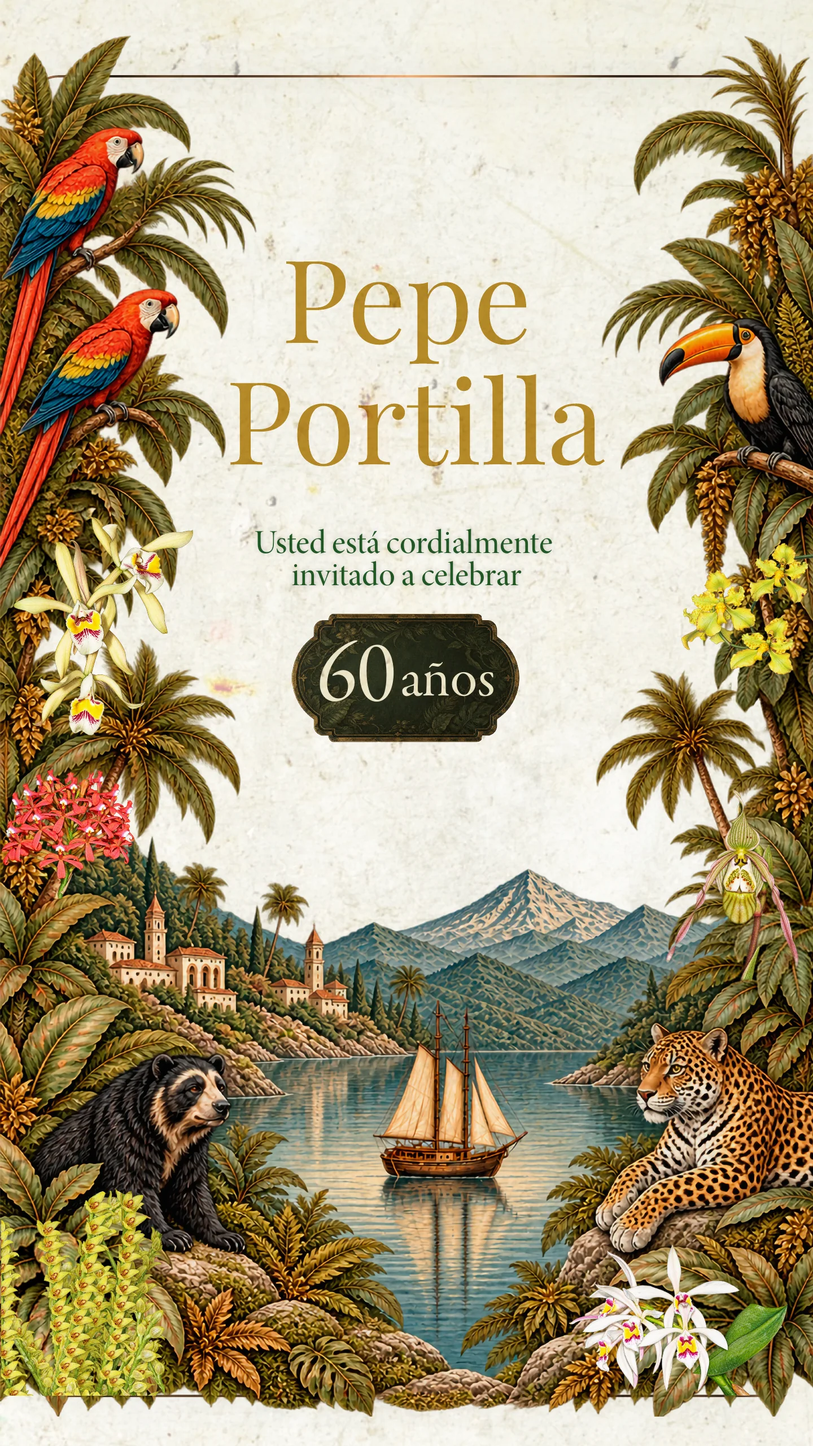
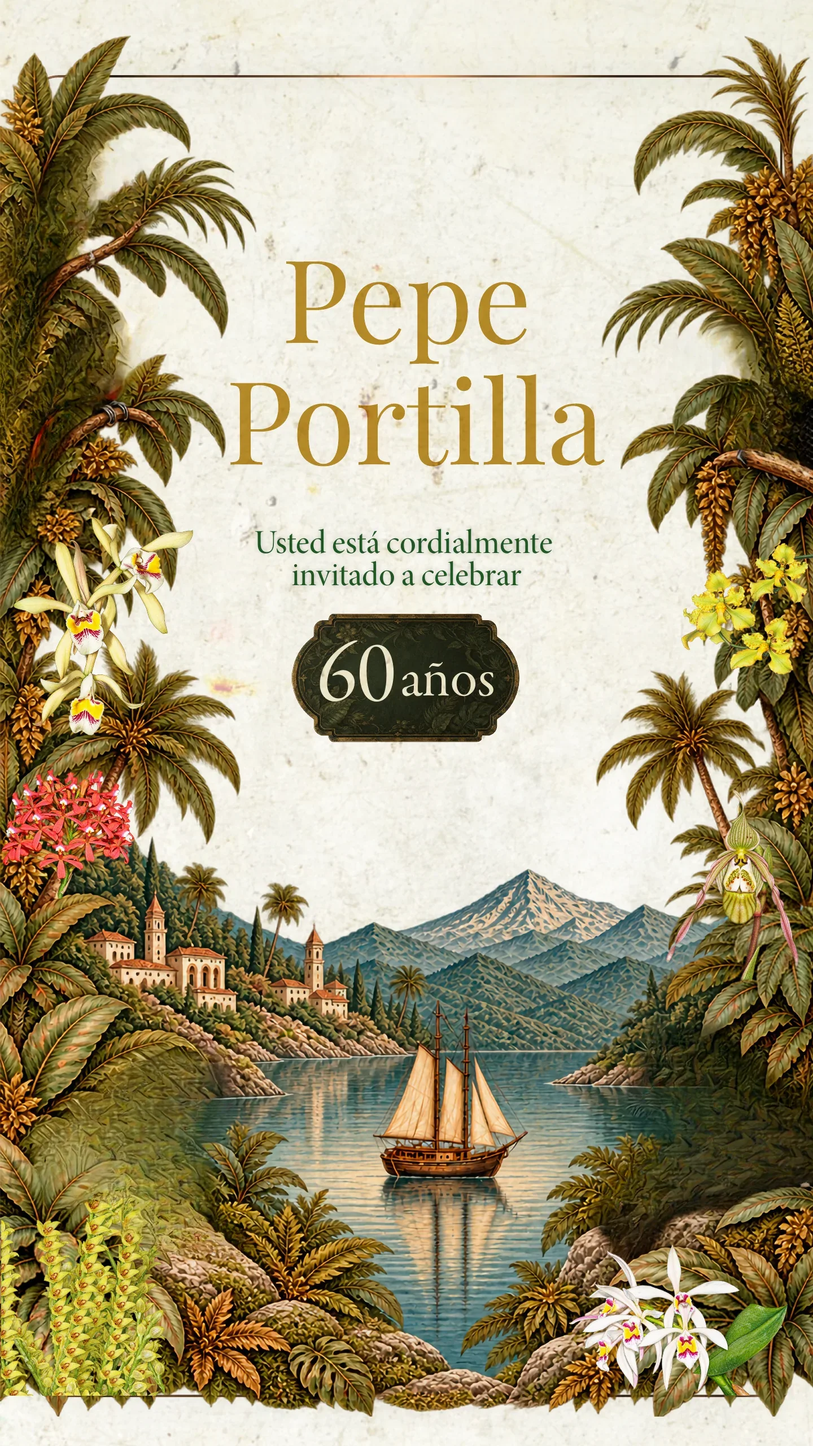
Add files via upload

diff --git a/css/styles.css b/css/styles.css
@@ -144,32 +144,131 @@ a, button { touch-action: manipulation; }
   45%      { transform: scale(calc(var(--z) + .05)); }
   60%      { transform: scale(calc(var(--z) - .01)); }
 }
-/* Animales de la portada: se levantan al llegar y al irse */
-[data-anim="animales"] .base { -webkit-mask: url(../img/m03_base.png) center / 100% 100% no-repeat; mask: url(../img/m03_base.png) center / 100% 100% no-repeat; }
-[data-anim="animales"].quieto .base, [data-anim="animales"].espera .base { -webkit-mask: none; mask: none; }
-[data-anim="animales"] .pieza { opacity: 0; transform: translateY(7%); }
-[data-anim="animales"].activo:not(.espera) .pieza { animation: sube .9s cubic-bezier(.2, .8, .25, 1) var(--d, 0s) both; }
-[data-anim="animales"].saliendo .pieza { animation: vuela-arriba .55s ease-in var(--d, 0s) both; }
-@keyframes sube { from { opacity: 0; transform: translateY(7%) scale(.96); } to { opacity: 1; transform: none; } }
-@keyframes vuela-arriba { from { opacity: 1; transform: none; } to { opacity: 0; transform: translateY(-12%) scale(1.04); } }
-/* Aves de la confirmación: llegan volando */
-[data-anim="aves"] .base { -webkit-mask: url(../img/m07_base.png) center / 100% 100% no-repeat; mask: url(../img/m07_base.png) center / 100% 100% no-repeat; }
-[data-anim="aves"].quieto .base { -webkit-mask: none; mask: none; }
-[data-anim="aves"] .pieza.vuela { opacity: 0; }
-[data-anim="aves"].activo .pieza.izq { animation: vuelo-izq 1.05s cubic-bezier(.25, .7, .3, 1) var(--d, 0s) both; }
-[data-anim="aves"].activo .pieza.der { animation: vuelo-der 1.05s cubic-bezier(.25, .7, .3, 1) var(--d, 0s) both; }
-@keyframes vuelo-izq {
-  0%   { opacity: 0; transform: translate(-45%, -18%) rotate(-10deg) scale(.9); }
-  25%  { opacity: 1; }
-  55%  { transform: translate(-12%, 6%) rotate(-4deg) scale(1.02); }
+/* ============================================================
+   ANIMALES: figuras por capas (cuerpo + cabeza + alas/patas).
+   Cada animal llega con su movimiento y luego "vive" en reposo.
+   ============================================================ */
+.animal, .ventana, .frente { position: absolute; pointer-events: none; }
+.animal { z-index: 3; will-change: transform, opacity; }
+.ventana { z-index: 3; overflow: hidden; }
+.frente { z-index: 4; height: auto; }
+.parte { position: absolute; inset: 0; width: 100%; height: 100%; display: block; will-change: transform; }
+
+/* --- estado inicial: fuera de escena hasta que la hoja se abre --- */
+[data-anim] .ave   { opacity: 0; }
+[data-anim] .oso    { transform: translateY(92%); }
+[data-anim] .jaguar { transform: translateX(130%); }
+
+/* ---------- GUACAMAYOS: llegan volando desde arriba a la izquierda ---------- */
+.activo:not(.espera) .guac1 { animation: llega-izq 1.7s cubic-bezier(.3,.6,.25,1) .15s both; }
+.activo:not(.espera) .guac2 { animation: llega-izq 1.7s cubic-bezier(.3,.6,.25,1) .55s both; }
+.activo:not(.espera) .guac1 .ala { animation: aleteo .22s ease-in-out .15s 7 alternate, ala-reposo 7s ease-in-out 3s infinite; }
+.activo:not(.espera) .guac2 .ala { animation: aleteo .22s ease-in-out .55s 7 alternate, ala-reposo 7s ease-in-out 4.3s infinite; }
+.activo:not(.espera) .guac1 .cabeza { animation: mira 6.5s ease-in-out 2.4s infinite; }
+.activo:not(.espera) .guac2 .cabeza { animation: mira 7.5s ease-in-out 3.6s infinite; }
+@keyframes llega-izq {
+  0%   { opacity: 0; transform: translate(-70%, -90%) rotate(-14deg) scale(.92); }
+  12%  { opacity: 1; }
+  60%  { transform: translate(-14%, -22%) rotate(-8deg) scale(1.02); }
+  85%  { transform: translate(2%, 3%) rotate(2deg) scale(1); }
   100% { opacity: 1; transform: none; }
 }
-@keyframes vuelo-der {
-  0%   { opacity: 0; transform: translate(45%, -22%) rotate(10deg) scale(.9); }
-  25%  { opacity: 1; }
-  55%  { transform: translate(12%, 5%) rotate(4deg) scale(1.02); }
+@keyframes aleteo { from { transform: rotate(-52deg); } to { transform: rotate(6deg); } }
+/* en reposo, de vez en cuando el ala se acomoda */
+@keyframes ala-reposo { 0%, 86%, 100% { transform: none; } 90% { transform: rotate(-14deg); } 94% { transform: rotate(-4deg); } }
+/* la cabeza gira como mirando al invitado */
+@keyframes mira { 0%, 100% { transform: none; } 12% { transform: rotate(-9deg); } 28% { transform: rotate(-9deg); } 40% { transform: rotate(3deg); } 52% { transform: none; } }
+
+/* ---------- TUCÁN (portada): llega volando desde la derecha ---------- */
+.activo:not(.espera) .tucan { animation: llega-der 1.6s cubic-bezier(.3,.6,.25,1) .9s both; }
+.activo:not(.espera) .tucan .ala { animation: aleteo-tucan .2s ease-in-out .9s 8 alternate, ala-reposo 9s ease-in-out 5s infinite; }
+.activo:not(.espera) .tucan .cabeza { animation: mira-tucan 7s ease-in-out 3s infinite; }
+@keyframes llega-der {
+  0%   { opacity: 0; transform: translate(80%, -70%) rotate(12deg) scale(.9); }
+  12%  { opacity: 1; }
+  60%  { transform: translate(16%, -18%) rotate(6deg) scale(1.02); }
+  85%  { transform: translate(-2%, 3%) rotate(-2deg); }
   100% { opacity: 1; transform: none; }
 }
+@keyframes aleteo-tucan { from { transform: rotate(-30deg) translateY(-6%); } to { transform: rotate(4deg); } }
+@keyframes mira-tucan { 0%, 100% { transform: none; } 15% { transform: rotate(7deg); } 30% { transform: rotate(7deg); } 42% { transform: rotate(-4deg); } 55% { transform: none; } }
+
+/* ---------- OSO: asoma de entre las matas y mira al invitado ---------- */
+.activo:not(.espera) .oso { animation: asoma 1.9s cubic-bezier(.2,.7,.2,1) .6s both; }
+.activo:not(.espera) .oso .cuerpo { animation: respira 3.6s ease-in-out 2.6s infinite; transform-origin: 50% 100%; }
+.activo:not(.espera) .oso .cabeza { animation: oso-mira 8s ease-in-out 2.8s infinite; }
+@keyframes asoma {
+  0%   { transform: translateY(92%); }
+  55%  { transform: translateY(-4%); }
+  75%  { transform: translateY(2%); }
+  100% { transform: none; }
+}
+@keyframes respira { 0%, 100% { transform: scaleY(1); } 50% { transform: scaleY(1.018) scaleX(1.006); } }
+@keyframes oso-mira {
+  0%, 100% { transform: none; }
+  10%  { transform: rotate(-7deg) translateY(-1.5%); }   /* levanta la cabeza hacia el invitado */
+  26%  { transform: rotate(-7deg) translateY(-1.5%); }
+  34%  { transform: rotate(-2deg); }
+  50%  { transform: rotate(5deg) translateY(1%); }       /* la ladea */
+  62%  { transform: none; }
+}
+
+/* ---------- JAGUAR: llega caminando desde la derecha y se recuesta ---------- */
+.activo:not(.espera) .jaguar { animation: camina 2.6s cubic-bezier(.35,.4,.3,1) .8s both; }
+.activo:not(.espera) .jaguar .cuerpo { animation: paso-cuerpo .42s ease-in-out .8s 5 alternate, se-recuesta .9s ease-out 2.9s both, respira 4.2s ease-in-out 4s infinite; transform-origin: 50% 100%; }
+.activo:not(.espera) .jaguar .pataa { animation: paso-a .42s ease-in-out .8s 5 alternate, patas-quietas .5s ease-out 2.9s both; }
+.activo:not(.espera) .jaguar .patab { animation: paso-b .42s ease-in-out .8s 5 alternate, patas-quietas .5s ease-out 2.9s both; }
+.activo:not(.espera) .jaguar .cabeza { animation: paso-cabeza .42s ease-in-out .8s 5 alternate, jaguar-mira 9s ease-in-out 4.5s infinite; }
+@keyframes camina {
+  0%   { transform: translateX(130%); }
+  80%  { transform: translateX(0%); }
+  100% { transform: none; }
+}
+@keyframes paso-cuerpo { from { transform: translateY(0) rotate(0); } to { transform: translateY(-2.2%) rotate(-1.2deg); } }
+@keyframes paso-a { from { transform: rotate(-9deg); } to { transform: rotate(7deg); } }
+@keyframes paso-b { from { transform: rotate(8deg); } to { transform: rotate(-8deg); } }
+@keyframes paso-cabeza { from { transform: translateY(0); } to { transform: translateY(-1.5%) rotate(-2deg); } }
+@keyframes se-recuesta { 0% { transform: translateY(-3%) scaleY(1.05); } 60% { transform: translateY(.5%) scaleY(.985); } 100% { transform: none; } }
+@keyframes patas-quietas { to { transform: none; } }
+@keyframes jaguar-mira {
+  0%, 100% { transform: none; }
+  12% { transform: rotate(-6deg) translateX(-1.5%); }    /* gira hacia el centro de la hoja */
+  30% { transform: rotate(-6deg) translateX(-1.5%); }
+  40% { transform: rotate(2deg); }
+  55% { transform: none; }
+}
+
+/* ---------- SALIDA de la portada: las aves se van volando, el oso se esconde, el jaguar se levanta ---------- */
+.saliendo .ave   { animation: se-va-volando .6s ease-in both !important; }
+.saliendo .ave .ala { animation: aleteo .16s ease-in-out 0s 4 alternate !important; }
+.saliendo .oso   { animation: se-esconde .55s ease-in both !important; }
+.saliendo .jaguar { animation: se-va-der .6s ease-in both !important; }
+@keyframes se-va-volando { to { opacity: 0; transform: translate(-30%, -120%) rotate(-10deg); } }
+@keyframes se-esconde { to { transform: translateY(92%); } }
+@keyframes se-va-der { to { transform: translateX(130%); } }
+/* al volver atrás a la portada (o al pasar a esta hoja), todo llega otra vez */
+
+/* ---------- CONFIRMACIÓN: colibrí y tucán llegan volando ---------- */
+.activo:not(.espera) .colibri { animation: llega-colibri 2.1s cubic-bezier(.3,.5,.3,1) .2s both; }
+.activo:not(.espera) .colibri .ala { animation: zumbido .09s linear .2s 22 alternate, ala-colibri 6s ease-in-out 3s infinite; }
+.activo:not(.espera) .colibri .cabeza { animation: mira-colibri 5.5s ease-in-out 2.6s infinite; }
+.activo:not(.espera) .colibri .cuerpo { animation: flota 3.2s ease-in-out 2.4s infinite; }
+@keyframes llega-colibri {
+  0%   { opacity: 0; transform: translate(-85%, 70%) rotate(8deg) scale(.9); }
+  10%  { opacity: 1; }
+  45%  { transform: translate(-22%, -16%) rotate(-4deg); }   /* sube, se queda un instante suspendido */
+  62%  { transform: translate(-10%, -12%) rotate(-2deg); }
+  100% { opacity: 1; transform: none; }
+}
+@keyframes zumbido { from { transform: rotate(-38deg) scaleY(.9); } to { transform: rotate(14deg); } }
+@keyframes ala-colibri { 0%, 80%, 100% { transform: none; } 84% { transform: rotate(-24deg); } 88% { transform: rotate(6deg); } 92% { transform: rotate(-18deg); } 96% { transform: none; } }
+@keyframes mira-colibri { 0%, 100% { transform: none; } 14% { transform: rotate(6deg); } 30% { transform: rotate(6deg); } 42% { transform: rotate(-5deg); } 56% { transform: none; } }
+@keyframes flota { 0%, 100% { transform: none; } 50% { transform: translateY(-1.2%); } }
+
+.activo:not(.espera) .tucan7 { animation: llega-der 1.7s cubic-bezier(.3,.6,.25,1) .7s both; }
+.activo:not(.espera) .tucan7 .cabeza { animation: mira-tucan 7.5s ease-in-out 3.2s infinite; }
+.activo:not(.espera) .tucan7 .cuerpo { animation: respira 4s ease-in-out 3s infinite; transform-origin: 50% 100%; }
+
 /* Estrella de la agenda: baja por la línea y vuelve a aparecer arriba */
 .estrella {
   position: absolute; left: 22.5%; top: 20.47%; width: 8.96%; height: auto; z-index: 3; pointer-events: none;
@@ -270,5 +369,5 @@ a, button { touch-action: manipulation; }
 @media (prefers-reduced-motion: reduce) {
   *, *::before, *::after { animation: none !important; transition-duration: .01ms !important; }
   .pieza { opacity: 1 !important; transform: scale(var(--z, 1)) !important; }
-  [data-anim] .base { -webkit-mask: none !important; mask: none !important; }
+  .ave, .oso, .jaguar { opacity: 1 !important; transform: none !important; }
 }

diff --git a/index.html b/index.html
@@ -34,14 +34,38 @@
     <div class="stage" id="stage">
       <div class="slides" id="slides">
 
-    <!-- 1. Portada: los animales se levantan al entrar y al salir -->
-    <section class="hoja slide" data-anim="animales" aria-label="Invitación">
+    <!-- 1. Portada: cada animal es una figura aparte (cuerpo, cabeza, alas) y llega con su propio movimiento -->
+    <section class="hoja slide" data-anim="selva" aria-label="Invitación">
       <img class="base" src="img/03_portada.webp" width="1440" height="2560"
            alt="Pepe Portilla. Usted está cordialmente invitado a celebrar 60 años.">
-      <div class="pieza" style="background-image:url(img/03_portada.webp);-webkit-mask-image:url(img/m03_guac.png);mask-image:url(img/m03_guac.png);--ox:13%;--oy:22%;--d:.05s"></div>
-      <div class="pieza" style="background-image:url(img/03_portada.webp);-webkit-mask-image:url(img/m03_tucan.png);mask-image:url(img/m03_tucan.png);--ox:89%;--oy:27%;--d:.2s"></div>
-      <div class="pieza" style="background-image:url(img/03_portada.webp);-webkit-mask-image:url(img/m03_oso.png);mask-image:url(img/m03_oso.png);--ox:12%;--oy:79%;--d:.35s"></div>
-      <div class="pieza" style="background-image:url(img/03_portada.webp);-webkit-mask-image:url(img/m03_jaguar.png);mask-image:url(img/m03_jaguar.png);--ox:87%;--oy:80%;--d:.5s"></div>
+      <div class="animal guac1 ave" style="left:0.0%;top:8.864%;width:17.75%;height:21.189%">
+        <img class="parte cuerpo" src="img/anim/guac1_cuerpo.webp" alt="" decoding="async">
+        <img class="parte ala" src="img/anim/guac1_ala.webp" alt="" decoding="async" style="transform-origin:62% 20%">
+        <img class="parte cabeza" src="img/anim/guac1_cabeza.webp" alt="" decoding="async" style="transform-origin:72% 15%">
+      </div>
+      <div class="animal guac2 ave" style="left:0.0%;top:19.981%;width:22.163%;height:19.352%">
+        <img class="parte cuerpo" src="img/anim/guac2_cuerpo.webp" alt="" decoding="async">
+        <img class="parte ala" src="img/anim/guac2_ala.webp" alt="" decoding="async" style="transform-origin:64% 23%">
+        <img class="parte cabeza" src="img/anim/guac2_cabeza.webp" alt="" decoding="async" style="transform-origin:76% 16%">
+      </div>
+      <div class="animal tucan ave" style="left:80.948%;top:22.019%;width:19.051%;height:10.601%">
+        <img class="parte cuerpo" src="img/anim/tucan_cuerpo.webp" alt="" decoding="async">
+        <img class="parte ala" src="img/anim/tucan_ala.webp" alt="" decoding="async" style="transform-origin:75% 33%">
+        <img class="parte cabeza" src="img/anim/tucan_cabeza.webp" alt="" decoding="async" style="transform-origin:68% 38%">
+      </div>
+      <div class="ventana" style="left:3.57%;top:64.571%;width:26.626%;height:22.219%">
+        <div class="animal oso" style="left:0;top:37.5%;width:100%;height:62.5%">
+          <img class="parte cuerpo" src="img/anim/oso_cuerpo.webp" alt="" decoding="async">
+          <img class="parte cabeza" src="img/anim/oso_cabeza.webp" alt="" decoding="async" style="transform-origin:68% 52%">
+        </div>
+      </div>
+      <div class="animal jaguar" style="left:73.144%;top:70.751%;width:26.855%;height:15.895%">
+        <img class="parte cuerpo" src="img/anim/jaguar_cuerpo.webp" alt="" decoding="async">
+        <img class="parte patab" src="img/anim/jaguar_patab.webp" alt="" decoding="async" style="transform-origin:50% 82%">
+        <img class="parte pataa" src="img/anim/jaguar_pataa.webp" alt="" decoding="async" style="transform-origin:60% 66%">
+        <img class="parte cabeza" src="img/anim/jaguar_cabeza.webp" alt="" decoding="async" style="transform-origin:38% 40%">
+      </div>
+      <img class="frente" src="img/anim/p03_frente.webp" alt="" decoding="async" style="left:4.722%;top:82.305%;width:72.986%;height:5.859%">
     </section>
 
     <!-- 2. Cuenta regresiva -->
@@ -91,12 +115,19 @@
            alt="Código de vestimenta: traje formal. Verdes y sus tonalidades. Reservados para el cumpleañero.">
     </section>
 
-    <!-- 6. Confirmación: colibrí y tucán llegan volando; botón Asistencia más grande y latiendo -->
+    <!-- 6. Confirmación: el colibrí y el tucán llegan volando; botón Asistencia más grande y latiendo -->
     <section class="hoja slide" data-anim="aves" aria-label="Confirmación de asistencia">
       <img class="base" src="img/07_confirmacion.webp" width="1440" height="2560" decoding="async"
            alt="Agradecemos su confirmación hasta el 27 de diciembre del 2026.">
-      <div class="pieza vuela izq" style="background-image:url(img/07_confirmacion.webp);-webkit-mask-image:url(img/m07_colibri.png);mask-image:url(img/m07_colibri.png);--ox:14%;--oy:14%"></div>
-      <div class="pieza vuela der" style="background-image:url(img/07_confirmacion.webp);-webkit-mask-image:url(img/m07_tucan.png);mask-image:url(img/m07_tucan.png);--ox:86%;--oy:63%;--d:.15s"></div>
+      <div class="animal colibri ave" style="left:4.444%;top:8.242%;width:27.917%;height:13.594%">
+        <img class="parte cuerpo" src="img/anim/colibri_cuerpo.webp" alt="" decoding="async">
+        <img class="parte ala" src="img/anim/colibri_ala.webp" alt="" decoding="async" style="transform-origin:29.65% 36%">
+        <img class="parte cabeza" src="img/anim/colibri_cabeza.webp" alt="" decoding="async" style="transform-origin:34.1% 30%">
+      </div>
+      <div class="animal tucan7 ave" style="left:73.75%;top:56.289%;width:25.556%;height:13.359%">
+        <img class="parte cuerpo" src="img/anim/tucan7_cuerpo.webp" alt="" decoding="async">
+        <img class="parte cabeza" src="img/anim/tucan7_cabeza.webp" alt="" decoding="async" style="transform-origin:70% 33%">
+      </div>
       <div class="pieza grande late" style="background-image:url(img/07_confirmacion.webp);-webkit-mask-image:url(img/m07_asistencia.png);mask-image:url(img/m07_asistencia.png);--ox:30%;--oy:67%;--z:1.15"></div>
       <a class="zona" data-accion="confirmar" target="_blank" rel="noopener" aria-label="Confirmar asistencia por WhatsApp"
          style="left:5.5%;top:63.8%;width:49%;height:6.4%"></a>

diff --git a/README.md b/README.md
@@ -14,7 +14,8 @@ Sitio web estático (sin servidor, sin Claude): se publica con GitHub Pages.
 | `video/apertura.mp4` | Video corto que abre el libro al tocar el sello | Solo si cambia el diseño de la portada |
 | `img/00_portada.webp` | Primer cuadro del video (la portada cerrada). Debe verse igual que el inicio del video | Junto con el video |
 | `img/03_…09_*.webp` | Las 7 páginas de la invitación en HD (1440×2560, del PDF del diseñador) | Solo si cambia el diseño (fechas, horas, agenda…) |
-| `img/m*.png`, `img/p05_estrella.png` | Máscaras y recortes para las animaciones (animales, aves, botones más grandes, estrella) | No. Si se cambia una página, avisar: las máscaras dependen de la posición de cada elemento |
+| `img/anim/` | Los animales como figuras aparte (cuerpo, cabeza, alas, patas) extraídos del PDF del diseñador. Las páginas `03_portada` y `07_confirmacion` llevan el fondo sin los animales | No. Si cambia el diseño de esas páginas, avisar: hay que volver a separar las figuras |
+| `img/m*.png`, `img/p05_estrella.png` | Máscaras para los botones agrandados y la estrella de la agenda | No. Si se cambia una página, avisar: dependen de la posición de cada elemento |
 | `img/01_…, 02_…` | Imágenes de la portada anterior (ya no se usan) | Se pueden borrar |
 | `img/compartir.jpg` | Imagen que sale al compartir el link en WhatsApp (1200×630) | Si cambia el diseño |
 | `index.html` | Portada + todas las páginas y la posición de los botones (`style="left:…;top:…"`). Líneas "og:" = vista previa de WhatsApp | Solo para mover un botón o cambiar el título/dirección |
